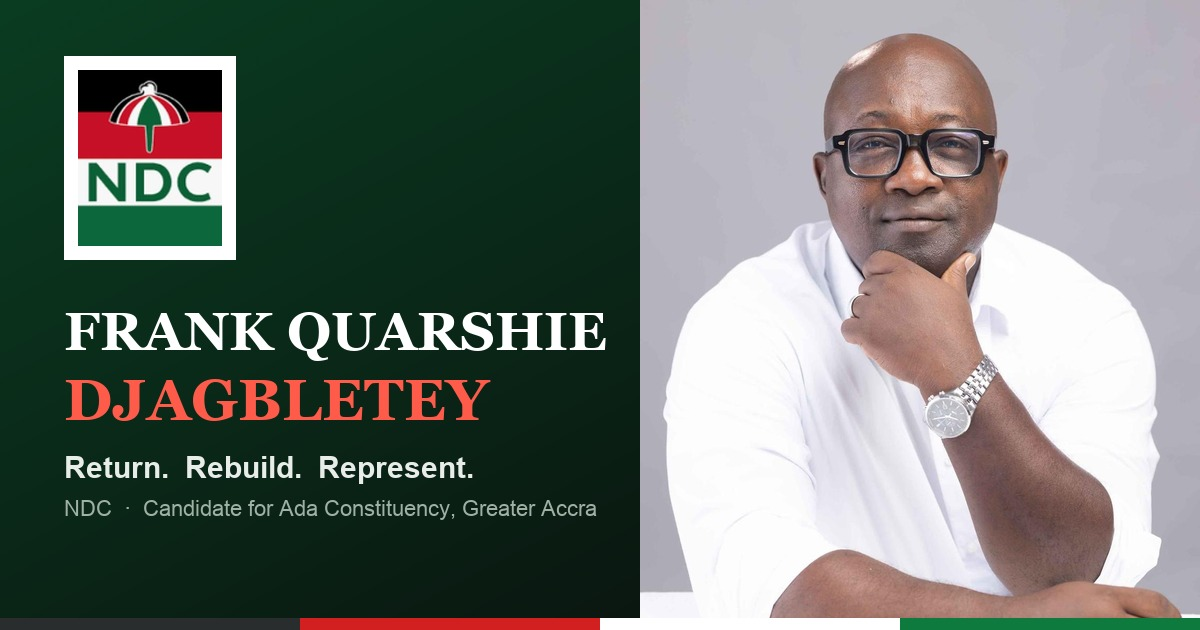
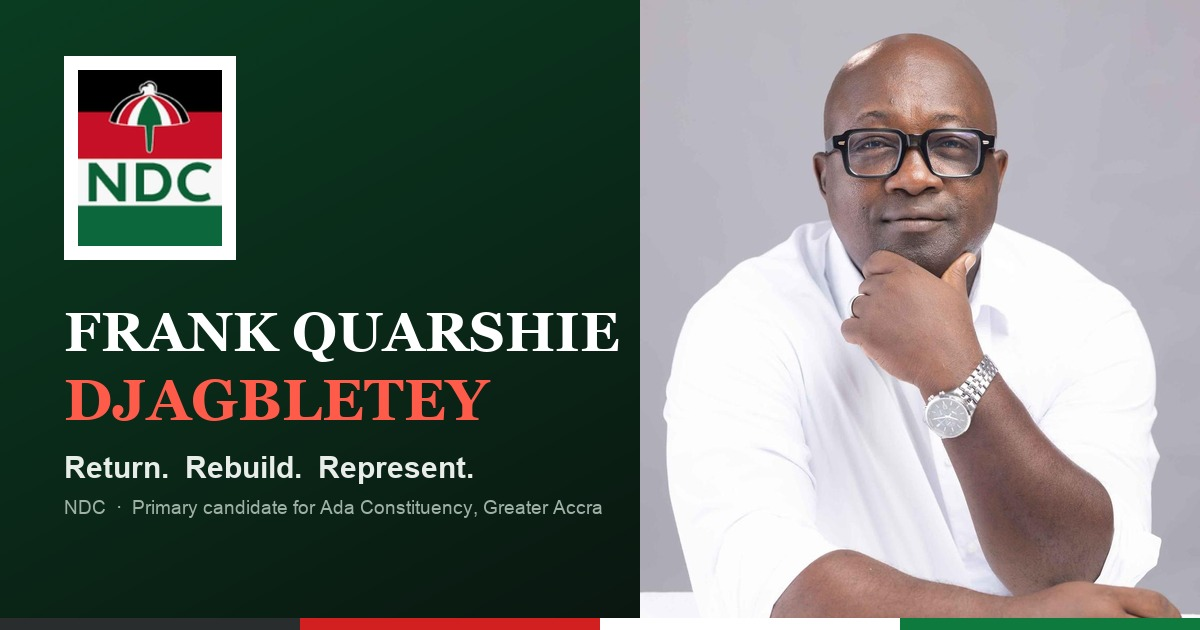
Correct candidate status: Frank is a primary candidate, not the candidate
The site was stating his candidacy as settled fact in four places a supporter or opponent would actually read: the browser tab title, the meta description, the Open Graph title (all three feed link previews), and the line directly under his name in the hero — the single most-seen claim on the page. All four now say 'primary candidate' / 'NDC primary candidate', not 'candidate'.

Also regenerated the OG share-card image, which had 'Candidate for Ada Constituency' baked into the pixels as rendered text, not just markup — a markup-only fix would have left the wrong claim in every link preview on WhatsApp/Facebook/Twitter. Re-measured the new, longer line against the available width before the portrait panel (556px budget, renders at 19px, no overlap).

Left 'The Candidate' as the section eyebrow and footer nav label alone — same pattern as 'The Charter', naming a section rather than asserting a title, and CAMPAIGN.candidate in app.js only ever interpolates his name, never the word itself.

Changed region(s): [[0.0617, 0.4825, 0.5242, 0.573], [0.0617, 0.7841, 0.4933, 0.8444]]

diff --git a/index.html b/index.html
@@ -1,9 +1,9 @@
 <meta charset="utf-8">
 <meta name="viewport" content="width=device-width,initial-scale=1,viewport-fit=cover">
-<title>Frank Quarshie Djagbletey — for Ada · Return. Rebuild. Represent.</title>
-<meta name="description" content="Frank Quarshie Djagbletey for Ada Constituency, Greater Accra. Songor salt rights, sea defence, the estuary economy, and jobs for Ada's young people. Kakepeemi!">
+<title>Frank Quarshie Djagbletey — NDC Primary Candidate for Ada · Return. Rebuild. Represent.</title>
+<meta name="description" content="Frank Quarshie Djagbletey, NDC primary candidate for Ada Constituency, Greater Accra. Songor salt rights, sea defence, the estuary economy, and jobs for Ada's young people. Kakepeemi!">
 <meta name="theme-color" content="#ffffff">
-<meta property="og:title" content="Frank Quarshie Djagbletey — for Ada">
+<meta property="og:title" content="Frank Quarshie Djagbletey — NDC Primary Candidate for Ada">
 <meta property="og:description" content="Return. Rebuild. Represent. A campaign for Ada's salt, our shoreline, and our young people.">
 <meta property="og:url" content="https://eoforidanso.github.io/djagbletey4Ada/">
 <meta property="og:image" content="https://eoforidanso.github.io/djagbletey4Ada/images/og-preview.jpg">
@@ -57,7 +57,7 @@
         <div class="hero-name">
           <b>Frank Quarshie Djagbletey</b>
           <span class="gh-stripe" aria-hidden="true"><i></i><i></i><i></i></span>
-          <em>Candidate · Ada Constituency, Greater Accra</em>
+          <em>Primary Candidate · Ada Constituency, Greater Accra</em>
           <span class="party-badge">
             <img class="ndc-flag" src="images/ndc-emblem.png" alt="National Democratic Congress emblem">
           </span>
